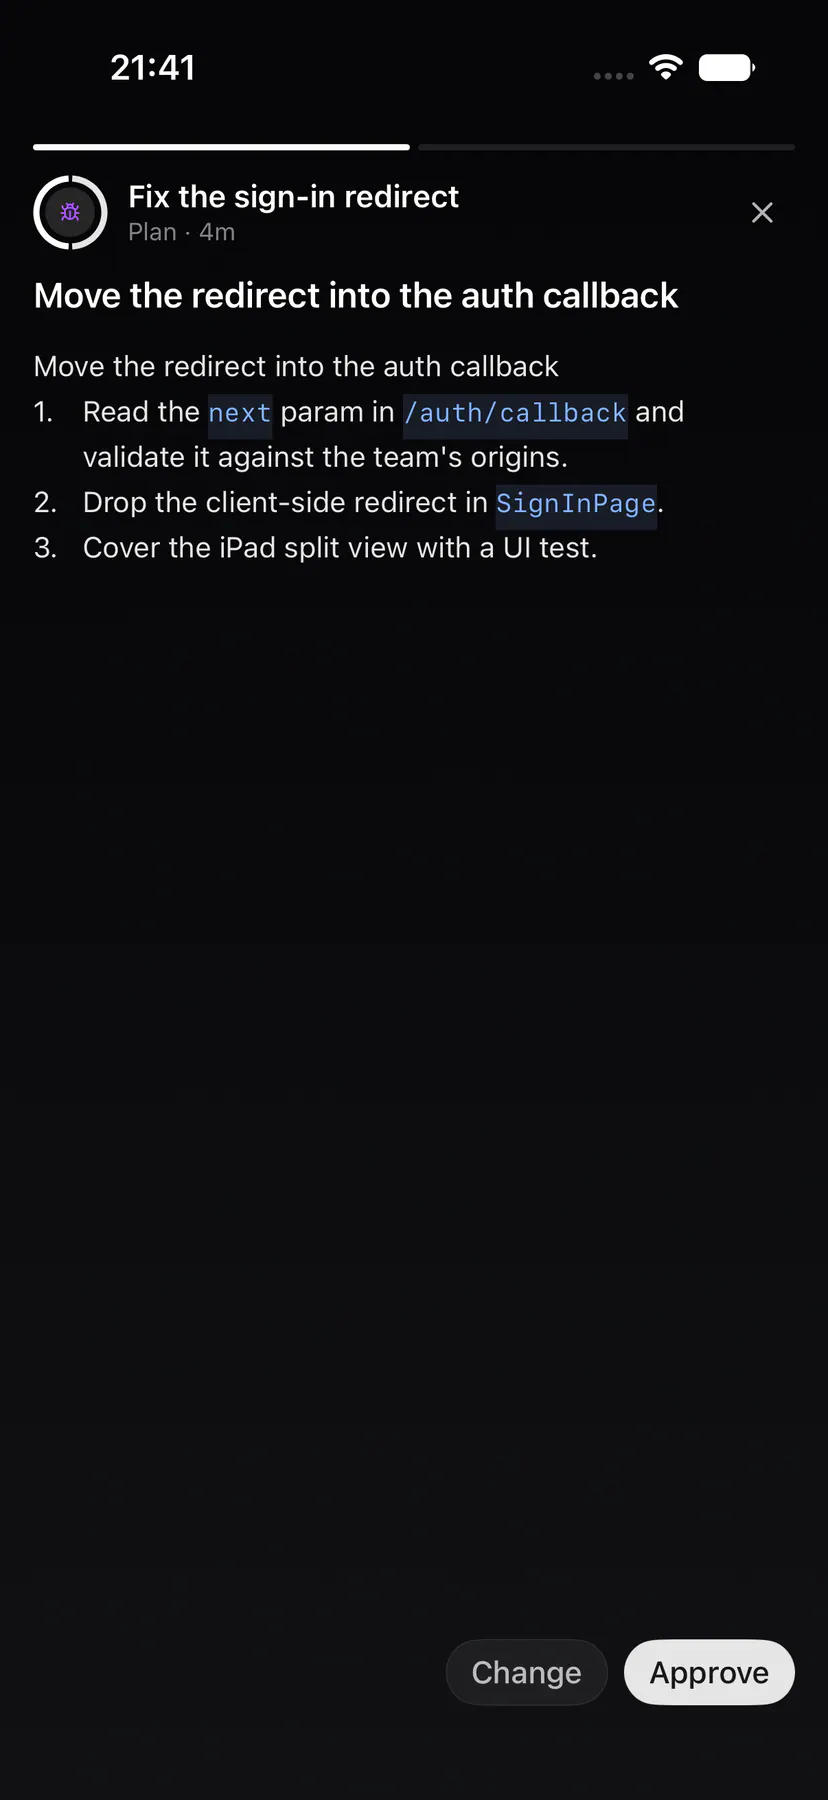
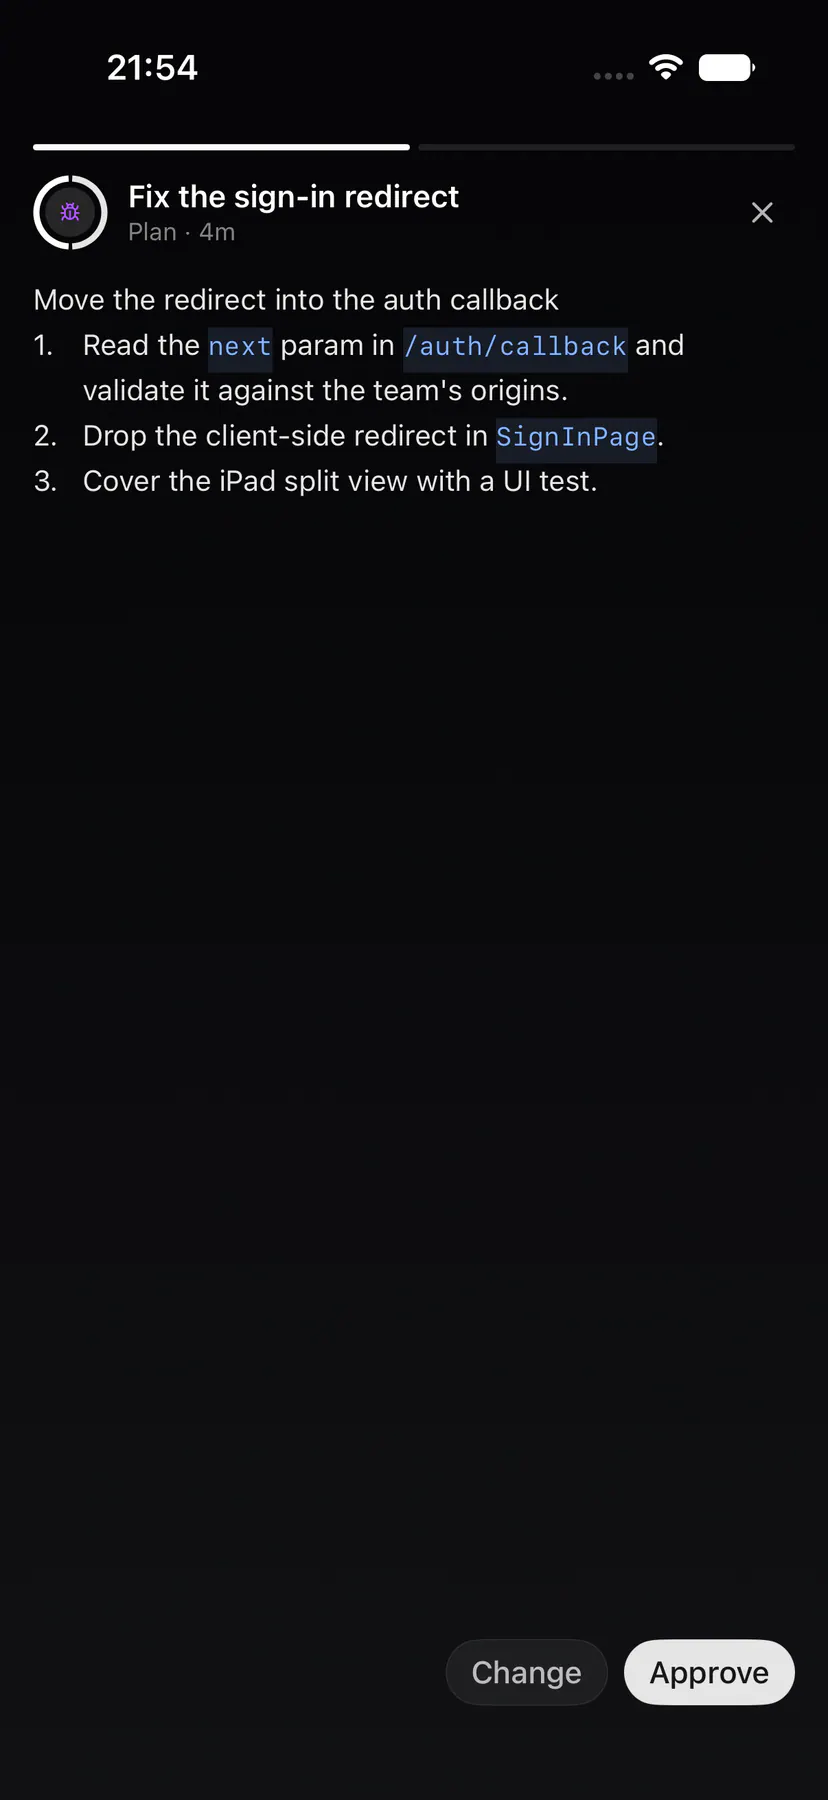
S-3 stories: iOS relay ask tagged feed-question (04_steering pop rect, sg_session gate); viewer hides the title over plan text; story-viewer shot refreshed

Changed region(s): [[0.0302, 0.1556, 0.8152, 0.3111], [0.1208, 0.0311, 0.2415, 0.0622]]

diff --git a/apps/ios/ExponentialUITests/StyleguideScreenshots.swift b/apps/ios/ExponentialUITests/StyleguideScreenshots.swift
@@ -1154,19 +1154,18 @@ final class StyleguideScreenshots: XCTestCase {
         // EXP-1343: a session chip of THIS thread opens as its page under
         // the thread's ONE header (the thread title, Stop while live) — no
         // pushed session screen, no back row (Android's `sg_session` is the
-        // same page). N-12: the relay feed's pending question waits as a
-        // DockCard ("Question: …") above the composer once the feed is live
-        // and answerable; the neighbouring Conversation page's cards are
-        // off screen, so gate on a HITTABLE one.
-        let relayCard = app.buttons
-            .matching(NSPredicate(format: "identifier == %@ AND label BEGINSWITH %@", "dock-card", "Question"))
+        // same page). S-3: the relay feed's pending question stays inline
+        // (`feed-question`, dock.json) once the feed is live and answerable;
+        // the neighbouring Conversation page's cards are off screen, so gate
+        // on a HITTABLE one.
+        let relayCard = app.descendants(matching: .any).matching(identifier: "feed-question")
         let deadline = Date().addingTimeInterval(Wait.firstSync)
         while Date() < deadline, !relayCard.allElementsBoundByIndex.contains(where: \.isHittable) {
             settle(1)
         }
         XCTAssertTrue(
             relayCard.allElementsBoundByIndex.contains(where: \.isHittable),
-            "The session drew no pending question in its Dock — is `bun run screenshots:desktop` publishing its feed?"
+            "The session drew no pending question inline — is `bun run screenshots:desktop` publishing its feed?"
         )
         expect(
             anyElement(app, identified: "thread-tab-session-\(Self.sessionId)"),

diff --git a/apps/ios/Exponential/UI/Session/AgentSessionView.swift b/apps/ios/Exponential/UI/Session/AgentSessionView.swift
@@ -1302,7 +1302,7 @@ struct AgentSessionView: View {
         // EXP-642: the store slide's pop-out rect is measured off the question
         // card (`PopRects`). `contain` keeps its option buttons queryable.
         .accessibilityElement(children: .contain)
-        .accessibilityIdentifier("agent-feed-question")
+        .accessibilityIdentifier("feed-question")
     }
 
     /// A multi-question ask (EXP-249) as ONE stepper card, claude-style: one
@@ -1374,7 +1374,7 @@ struct AgentSessionView: View {
                 // from the recorded answer, never from the current step's.
                 .id("edit-\(editingStep.id)")
                 .accessibilityElement(children: .contain)
-                .accessibilityIdentifier("agent-feed-question")
+                .accessibilityIdentifier("feed-question")
             } else {
                 QuestionCard(
                     question: current,
@@ -1399,7 +1399,7 @@ struct AgentSessionView: View {
                 // never leak from one question into the next.
                 .id(current.id)
                 .accessibilityElement(children: .contain)
-                .accessibilityIdentifier("agent-feed-question")
+                .accessibilityIdentifier("feed-question")
             }
         }
     }

diff --git a/apps/ios/Exponential/UI/Chats/StoryViewer.swift b/apps/ios/Exponential/UI/Chats/StoryViewer.swift
@@ -7,7 +7,7 @@ import UIKit
 /// over everything on the phone. Top: THE StoryProgress over the ring's
 /// stories, then the header (the ring's avatar, the story's session name,
 /// its meta muted, the close ghost glyph; a tap on the avatar or name opens
-/// that session). Body: the one-line title, then the pictures (fitted, a
+/// that session). Body: the one-line title (none over plan text), then the pictures (fitted, a
 /// pager when several, the caption under it) and/or the surface through THE
 /// surface card renderer, else the plan's markdown. Footer per `footer`:
 /// Approve · Change, the question's chips (+ the free text when custom), a
@@ -135,7 +135,8 @@ struct StoryViewer: View {
     /// The title + body: the tap thirds, the swipes and the held press.
     private func navigable(_ story: Stories.Story) -> some View {
         VStack(alignment: .leading, spacing: 12) {
-            if let title = story.title {
+            // stories.json: no title line over the plan text (its first line).
+            if let title = story.title, story.text == nil {
                 Text(title)
                     .font(.headline)
                     .foregroundStyle(.white)

diff --git a/apps/ios/ExponentialUITests/PopRects.swift b/apps/ios/ExponentialUITests/PopRects.swift
@@ -37,7 +37,7 @@ enum PopRects {
     /// The identifiers themselves live on the product views (`issue-description`,
     /// `agent-composer-headline` (EXP-1038: the run's subject moved out of the
     /// card, so the pop-out has to take it in) + `agent-composer` +
-    /// `agent-options-row`, `dock-card` (N-12: the waiting question's card),
+    /// `agent-options-row`, `feed-question` (S-3: the relay's inline ask card),
     /// `notification-row`, plus the pre-existing `issue-row-*`,
     /// `action-row`) and are mirrored 1:1 as Android
     /// testTags — see `PopRects.kt`.
@@ -45,7 +45,7 @@ enum PopRects {
         "01_board": ["issue-row-APP-5"],
         "02_issue-detail": ["issue-description"],
         "03_start-coding": ["agent-composer-headline", "agent-composer", "agent-options-row"],
-        "04_steering": ["dock-card"],
+        "04_steering": ["feed-question"],
         "07_inbox": ["notification-row"],
     ]
 
